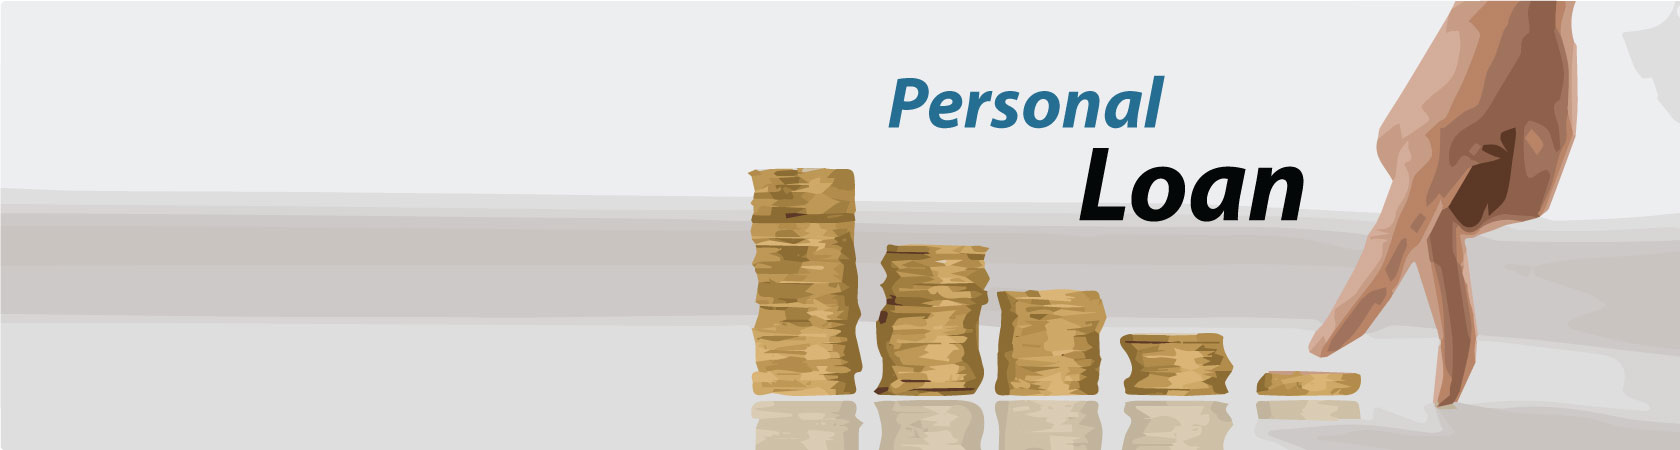
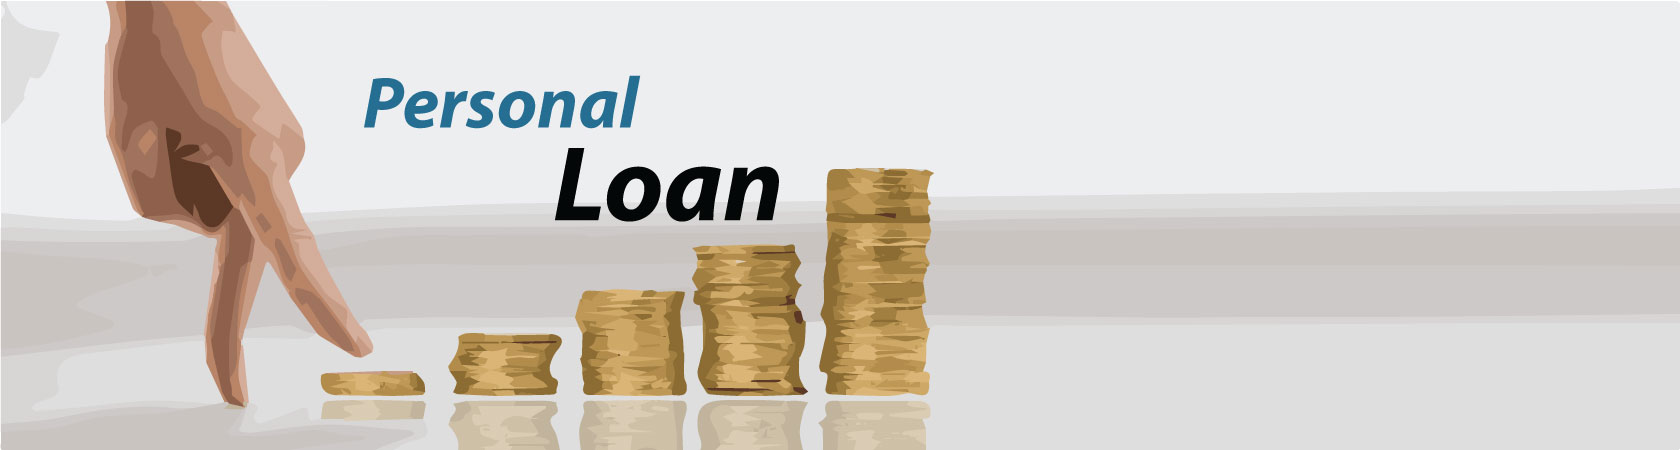
some change css, landing page

diff --git a/resource/front_end/css/style.css b/resource/front_end/css/style.css
@@ -1076,6 +1076,7 @@ body {
 a .personal_loan_landing_button.flash-button {
     color: #000 !important;
     font-weight: bold;
+    float: right;
 }
 /* for auto loan */
 #auto_header{
@@ -1411,12 +1412,14 @@ a .fdr_landing_button{
 .auto_header_text p {
     color: #fff;
     font-size: 18px;
-    margin-bottom:20px;
+    margin-bottom: 20px;
+    text-align: right;
 }
 .auto_header_text {
     top: 120px;
-    position: absolute;
-    margin-left: 238px;
+    position: relative;
+    margin-right: 220px;
+    float: right;
 }
 
 .auto_button {
@@ -1882,11 +1885,13 @@ a:hover {
     color: #000;
     font-size: 18px;
     margin-bottom: 24px;
+    text-align: right;
 }
 .personal_header_text {
-    top: 165px;
-    position: absolute;
-    margin-left: 228px;
+    top: 125px;
+    position: relative;
+    margin-right: 222px;
+    float: right;
 }
 /*#personal_header_part img {
     float: right;
@@ -2102,10 +2107,11 @@ a:hover {
     font-style: italic;
 }
 .education_header_text {
-    text-align: center;
+    text-align: right;
     top: 250px;
-    margin-left:517px;
-    position: absolute;
+    margin-right: 220px;
+    position: relative;
+    float: right;
 }
 .education_loan_icon {
     position: relative;
@@ -3550,10 +3556,11 @@ a .millionier_landing_button{
     50% { opacity: 0.5; }
     100% { opacity: 1.0; }
 }
-a .auto_button.flash-button{
+a .auto_button.flash-button {
     color: #1a181b;
     font-weight: bold;
-    text-decoration:none;
+    text-decoration: none;
+    float: right;
 }
 /*Auto loan button*/
 .btn_landing_auto {
@@ -4290,7 +4297,7 @@ span.filter-option {
     font-size:12px;
 }
 #currantAccount_header{
-    background-image:url(http://placehold.it/1600x320);
+    background-image:url(../images/Current-Ac-Banner.jpg);
     background-repeat:no-repeat;
     background-size:cover;
     width:100%;

diff --git a/application/views/front_end/block/vertical_menu.php b/application/views/front_end/block/vertical_menu.php
@@ -1153,7 +1153,7 @@
 																							<img class="pull-right" src="<?php echo base_url(); ?>resource/front_end/images/mashmenu/investment/card_feature.png" alt="img" class="thumbnail">
 																							<div class="clearfix"></div>
 																							<p class="text-right">
-																								<span class="focus-text">Periodic Benefit Scheme</span> is the most used plastic money in Bangladesh. Whether to shop or dine or to carry all the money of your account into one single plastic card, Debit card is the part of our finance life.
+																								<span class="focus-text">Saving Account</span>  is an interest-bearing deposit account held at a bank or another financial institution that provides a modest interest rate on deposits.
 																							</p>
 
 																							<a class="megamenu_feature_link land_modal" data-toggle="modal" data-target=".bs-example-modal-lg">Find All Saving Accounts Here</a>
@@ -1167,7 +1167,7 @@
 																							<img class="pull-right" src="<?php echo base_url(); ?>resource/front_end/images/mashmenu/investment/card_feature.png" alt="img" class="thumbnail">
 																							<div class="clearfix"></div>
 																							<p class="text-right">
-																								<span class="focus-text">Periodic Benefit Scheme</span> is the most used plastic money in Bangladesh. Whether to shop or dine or to carry all the money of your account into one single plastic card, Debit card is the part of our finance life.
+                                                                                                <span class="focus-text">Current Account</span> is made with Bank or financial institution that permits the withdrawal of funds and allows checks to be written against the balance.
 																							</p>
 
 																							<a class="megamenu_feature_link" href="<?php echo base_url(); ?>en/current_account">Find All Current Accounts Here</a>
@@ -1181,7 +1181,7 @@
 																							<img class="pull-right" src="<?php echo base_url(); ?>resource/front_end/images/mashmenu/investment/card_feature.png" alt="img" class="thumbnail">
 																							<div class="clearfix"></div>
 																							<p class="text-right">
-																								<span class="focus-text">Periodic Benefit Scheme</span> is the most used plastic money in Bangladesh. Whether to shop or dine or to carry all the money of your account into one single plastic card, Debit card is the part of our finance life.
+																								<span class="focus-text">SND Account</span> is an interest bearing deposit where advance notice of 7 to 30 days required for amount withdrawal.
 																							</p>
 
 																							<a class="megamenu_feature_link" href="#">Find All SND Here</a>

diff --git a/application/views/front_end/current_account.php b/application/views/front_end/current_account.php
@@ -1,3 +1,6 @@
+<section id="currantAccount_header">
+
+</section>
 <section id="card">
     <div class="container">
         <div class="row">
